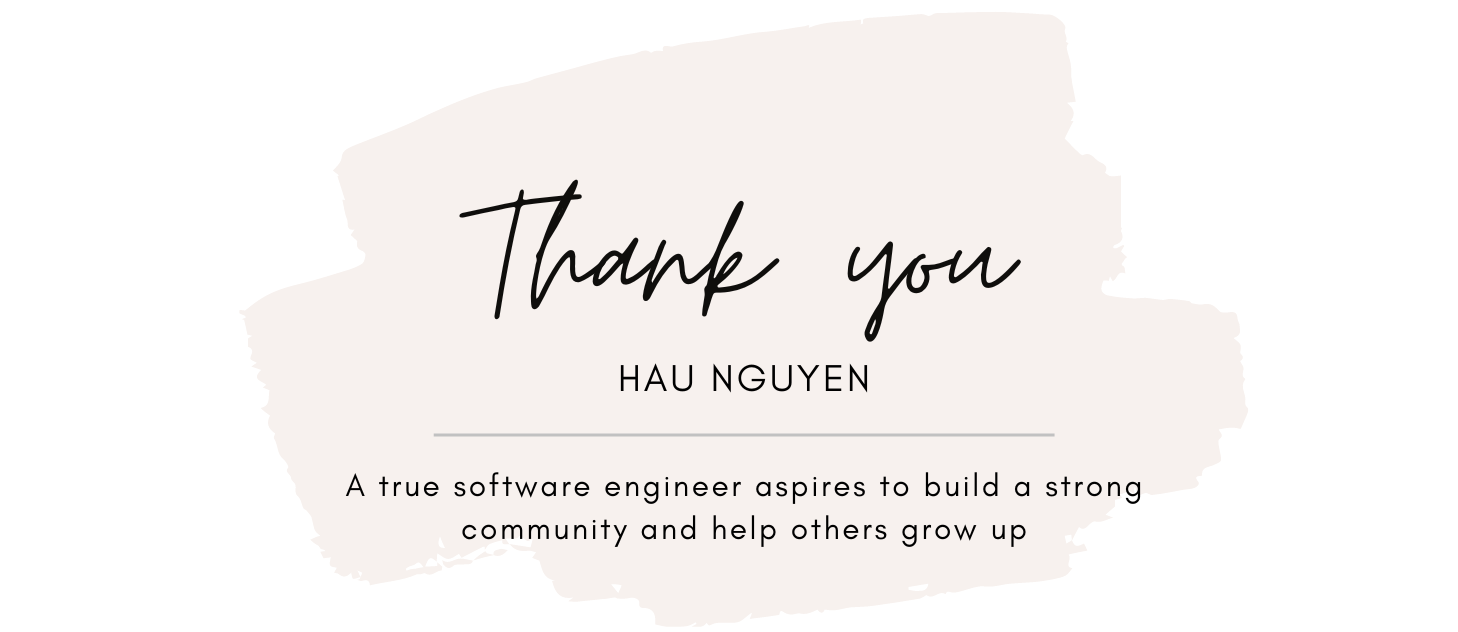
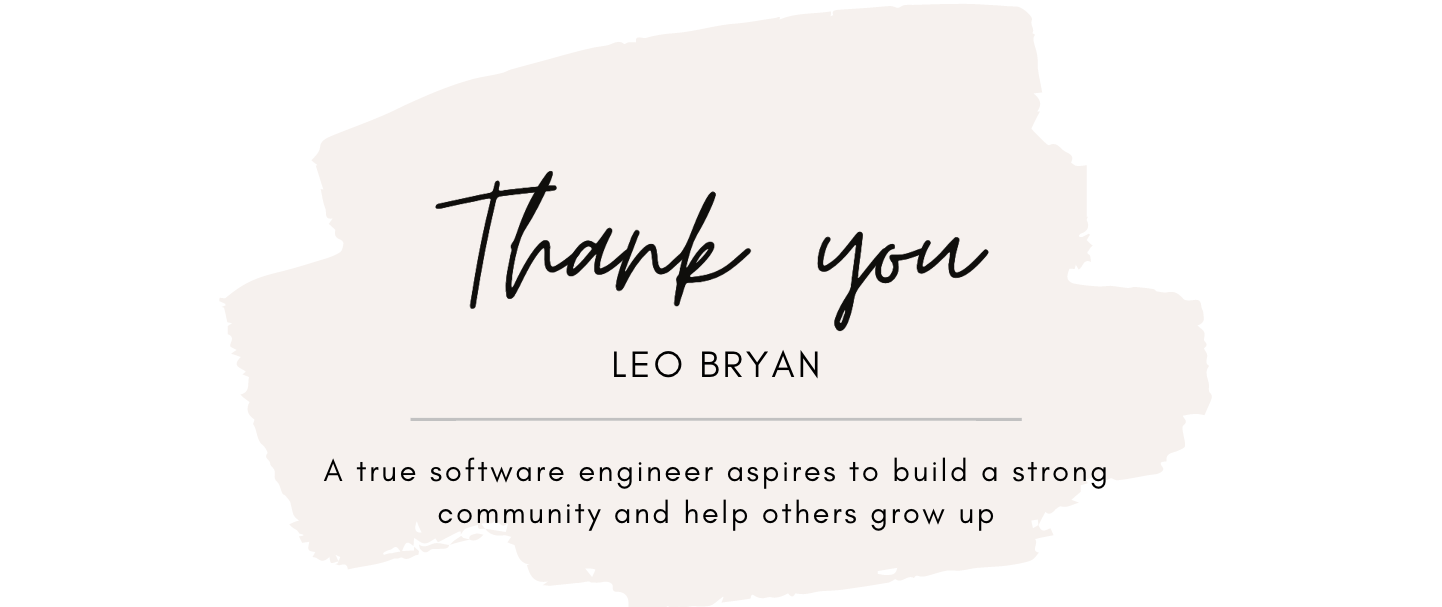
feat: update readme

diff --git a/README.md b/README.md
@@ -1,7 +1,7 @@
 <h2 align="center">
     <img src="assets/banner.png">
     <br> 
-    👋 Hi, I’m Hau NGUYEN (Leo) 🇻🇳 🇸🇬
+    👋 Hi, I’m Leo 🇻🇳 🇸🇬 Senior Software Engineer, Mobile
     <br>
 </h2> 
 <p>
